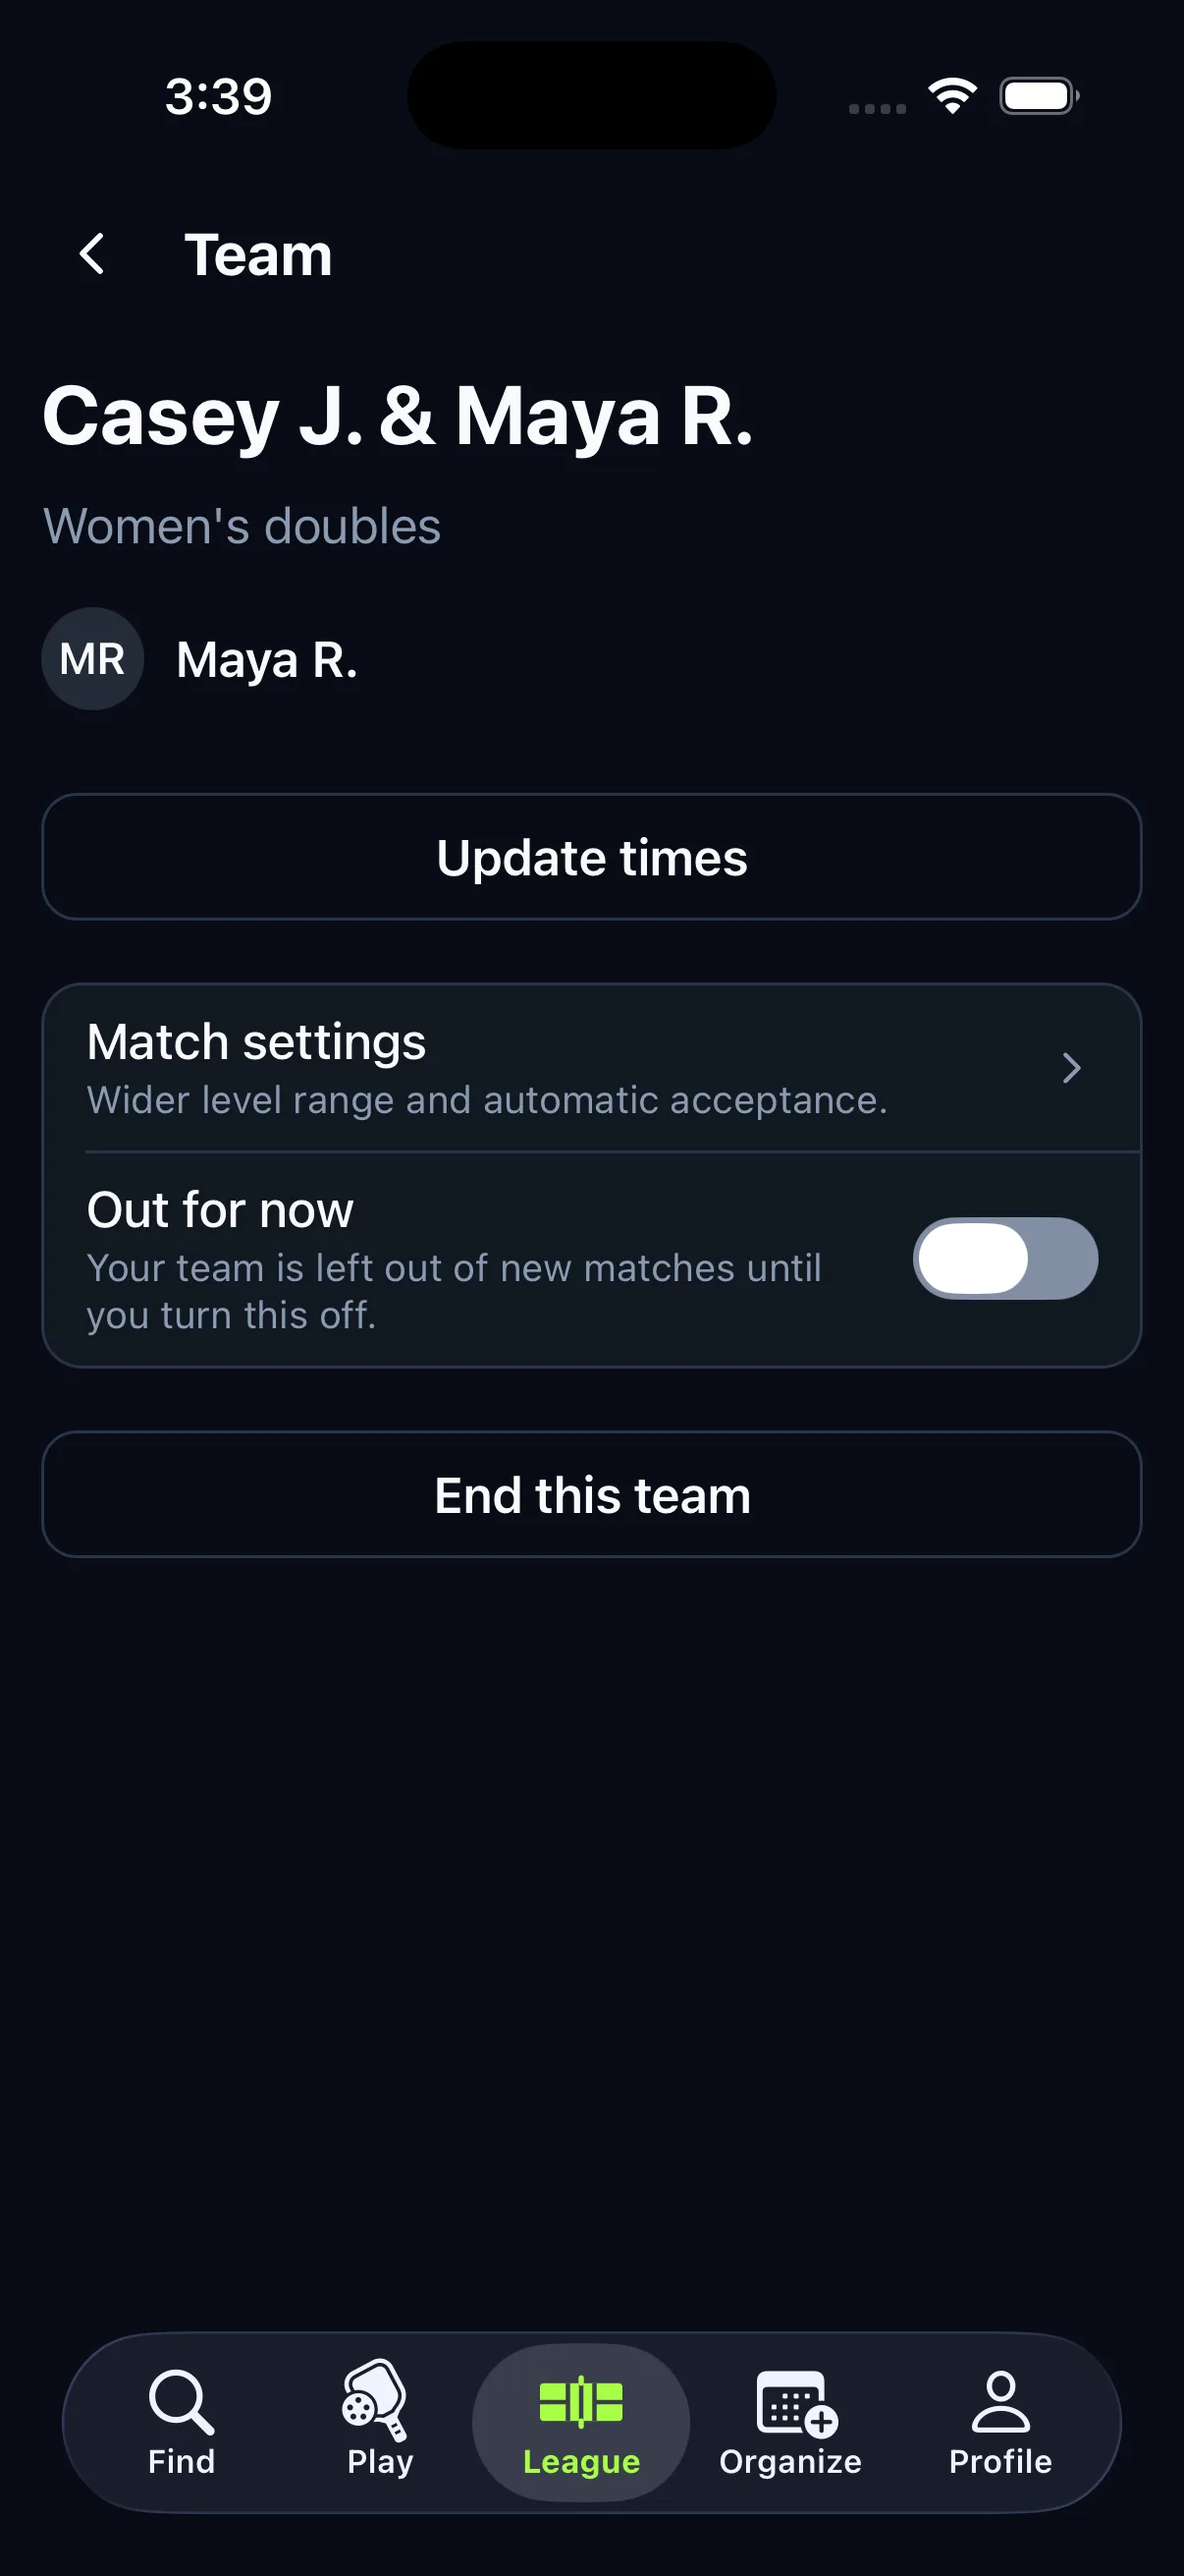
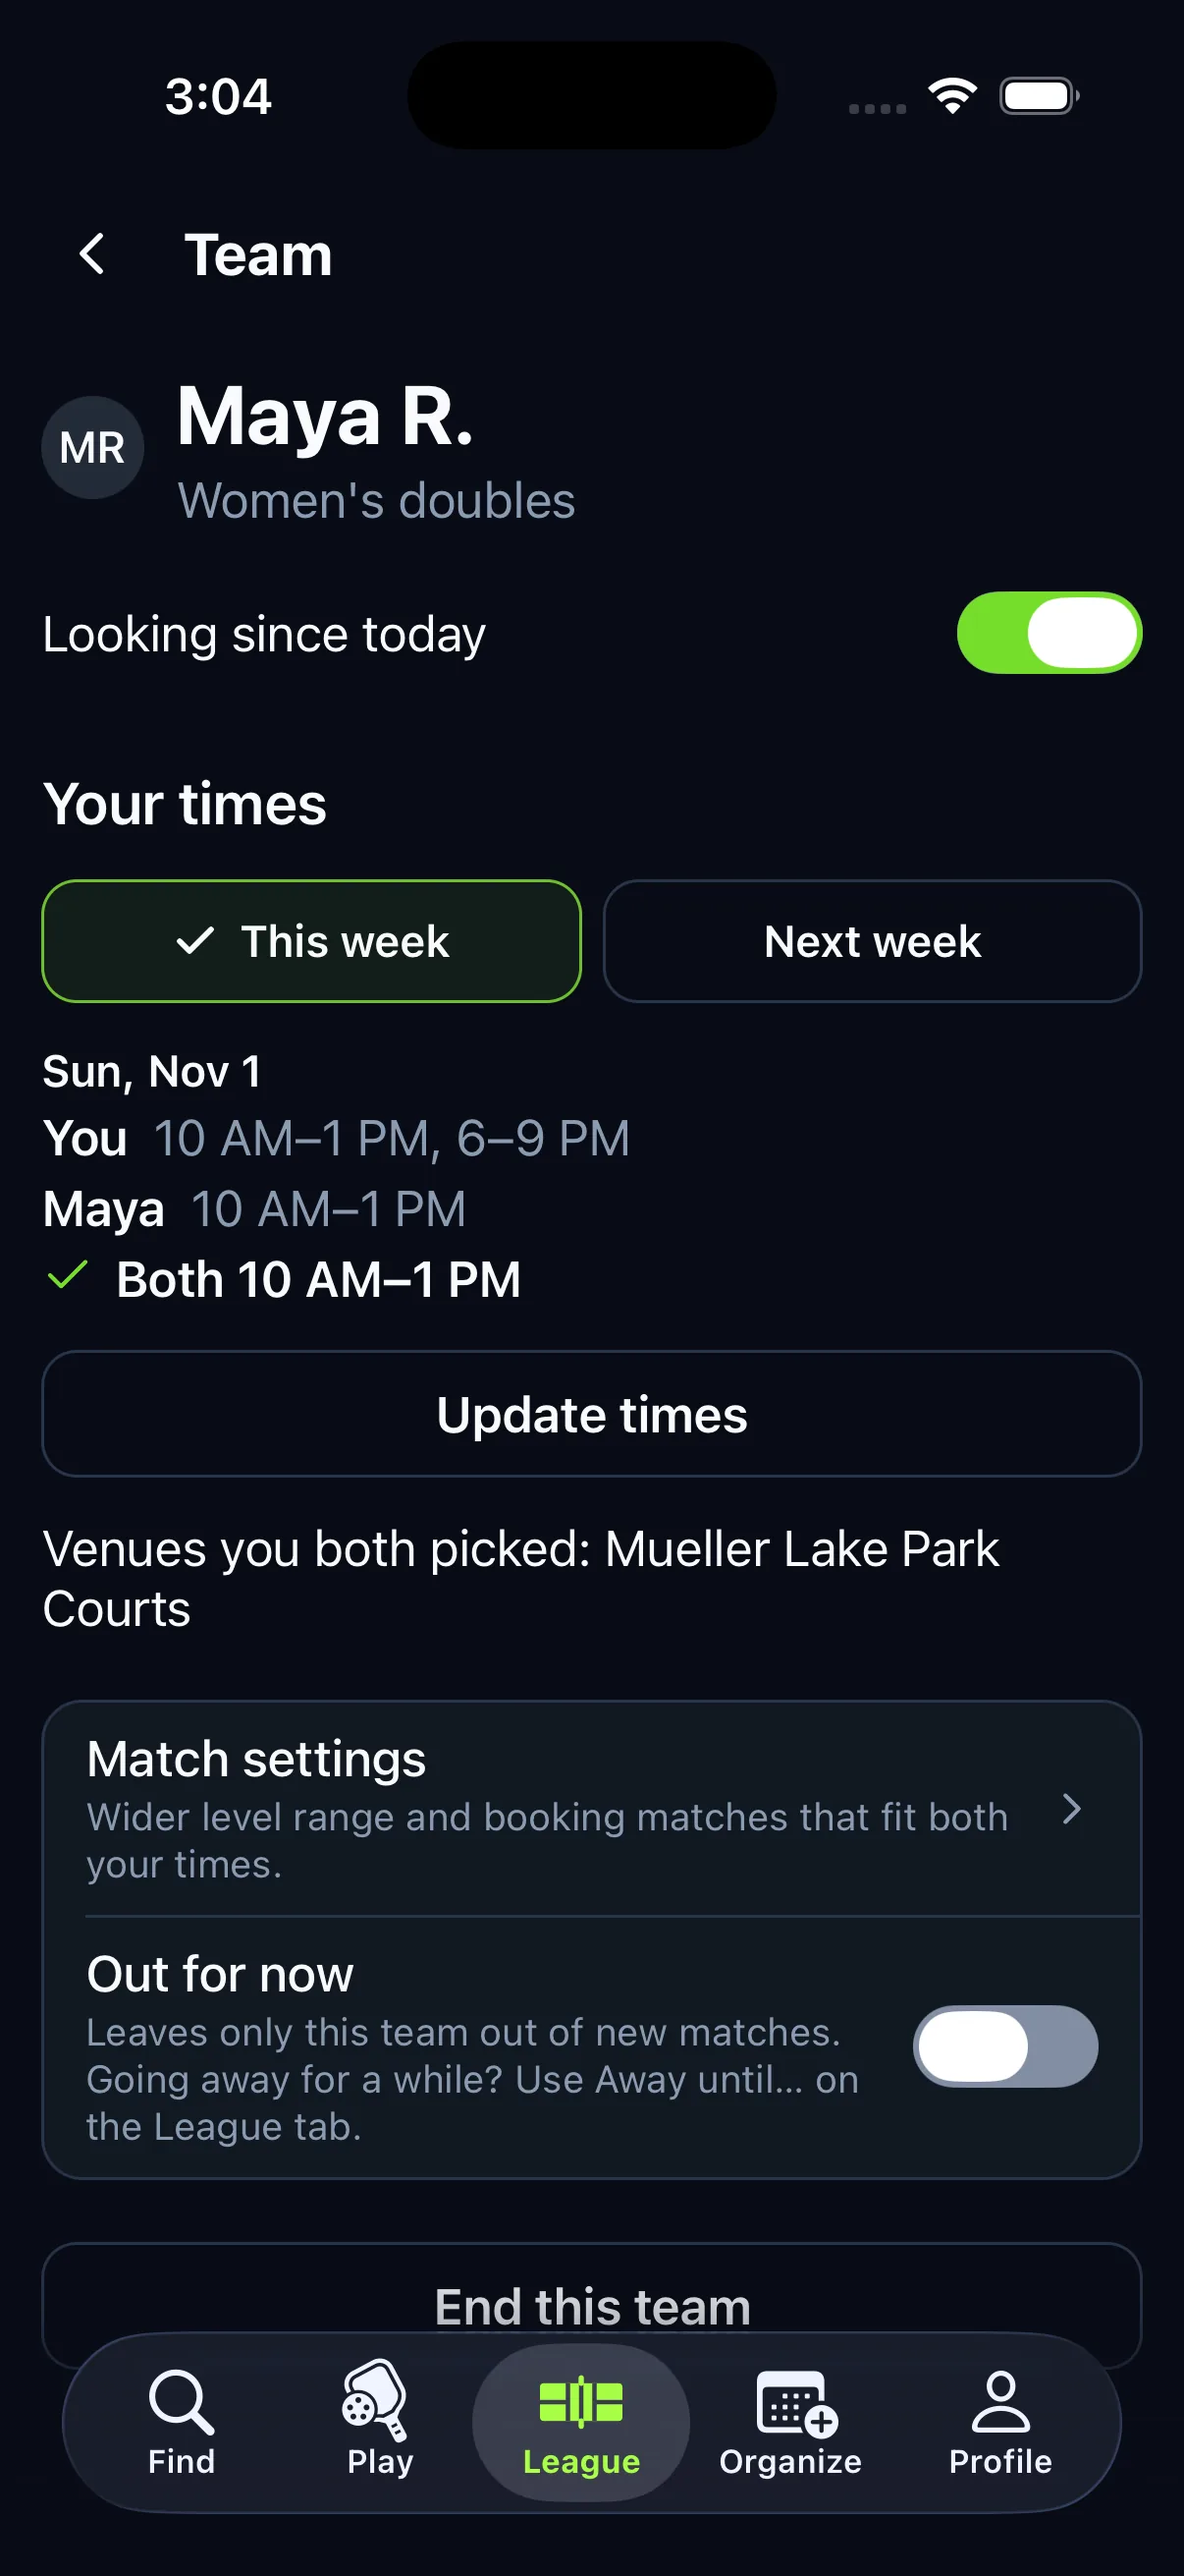
Show managing several fixed-partner teams
The Fixed teams chapter showed only the new-team invite flow and one
team page. It now walks Casey through running several partners at once:

- Several partners: each team row is named for the partner and says
  where it stands (waiting for Diego's times, Priya out for now, Maya
  looking), with Jade's pending invite in the same list.
- Team page (retaken): both partners' times this week, the overlap
  marked Both, and the venue they both picked.
- Waiting for a partner: Diego has no times, so the page says whose
  times are missing.
- Team Match found: says Casey's answer counts for Maya too.
- Partner accepted: Casey's match card says Maya accepted for the team.
- Partner left: the team ended when Diego left the League; Remove from
  my list clears it from Casey's list only.

Images are versioned 20261031a so phones fetch the new screens.
Checked: all six captions read against their screens; sync.mjs
reproduces current-captures.json byte for byte; page checks at 360,
390 and 1280 show no sideways scroll and every team image loads.

diff --git a/index.html b/index.html
@@ -170,7 +170,7 @@ dialog#lb[open] { display: grid; grid-template-rows: auto minmax(0, 1fr) auto; }
 </dialog>
 
 <script>
-const IMAGE_VERSION = '20261030a';
+const IMAGE_VERSION = '20261031a';
 const CHAPTERS = [
   { id: 'discover', title: 'Discover the League', who: 'What a player sees on the League tab before joining.', person: 'Blake', shots: [
     ['01-intro-match', 'Always open', 'Circuit finds games near you, at your times, against players at your level. Joining is free, any day of the year.'],
@@ -278,7 +278,12 @@ const CHAPTERS = [
     ['41-add-team', 'New team', 'Choose Women’s or Mixed doubles, then Create invite link. There is no player search: a partner is someone Casey already knows.'],
     ['41b-add-team-share', 'Send the link', 'The share sheet opens with the link, ready to text to a friend. It works for 7 days, and only the first person to open it can accept.'],
     ['41c-add-team-link-saved', 'Link saved', 'The invite waits under Matchmaking, with Share link to send it again and Cancel invite. Maya opens it on her own phone and accepts.'],
-    ['43-team-settings', 'Team page', 'Casey and Maya’s Women’s doubles team: times, match settings, Out for now, and End this team last.'],
+    ['42-teams-list', 'Several partners', 'Each team is named for the partner and says where it stands: Diego’s team waits for his times this week, Priya is out for now, and Maya’s team is looking. Jade’s invite waits for Casey’s answer.'],
+    ['43-team-settings', 'Team page', 'Casey and Maya’s Women’s doubles team: its status and switch, both partners’ times this week with the time they share marked Both, and the venue they both picked. Match settings, Out for now and End this team follow.'],
+    ['43b-team-times-missing', 'Waiting for a partner', 'Diego hasn’t saved times this week, so the team can’t be matched. The page says whose times are missing; Casey’s own times still show.'],
+    ['43c-team-match-found', 'Team Match found', 'Casey and Maya against Jade and Sofia on Sunday at 10 AM. Above Accept: the time fits both partners’ saved times, so Casey’s answer counts for Maya too.'],
+    ['43d-partner-accepted', 'Partner accepted', 'Maya answered first, for both of them. Casey’s card says so, and names the matchup with her partner first, so several teams stay easy to tell apart.'],
+    ['43e-team-ended', 'Partner left', 'Diego left the League, so the team ended and he is no longer named. Its record is kept, and Remove from my list clears it from Casey’s list only.'],
   ]},
   { id: 'scan', title: 'Scan to play', who: 'Already at the courts with someone? Set up a League match on the spot.', person: 'Casey', shots: [
     ['44-scan', 'Plan the match', 'The nearest League venues come first, each with its distance, when the phone already allows location. Without it, saved venues lead.'],
